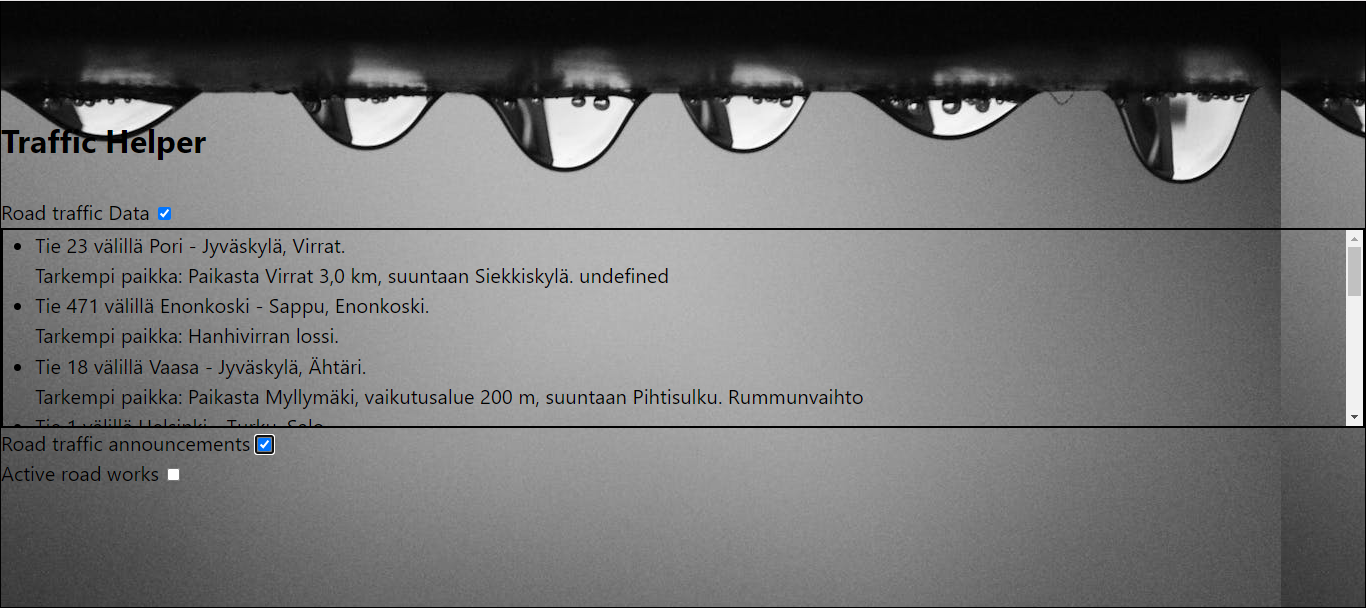
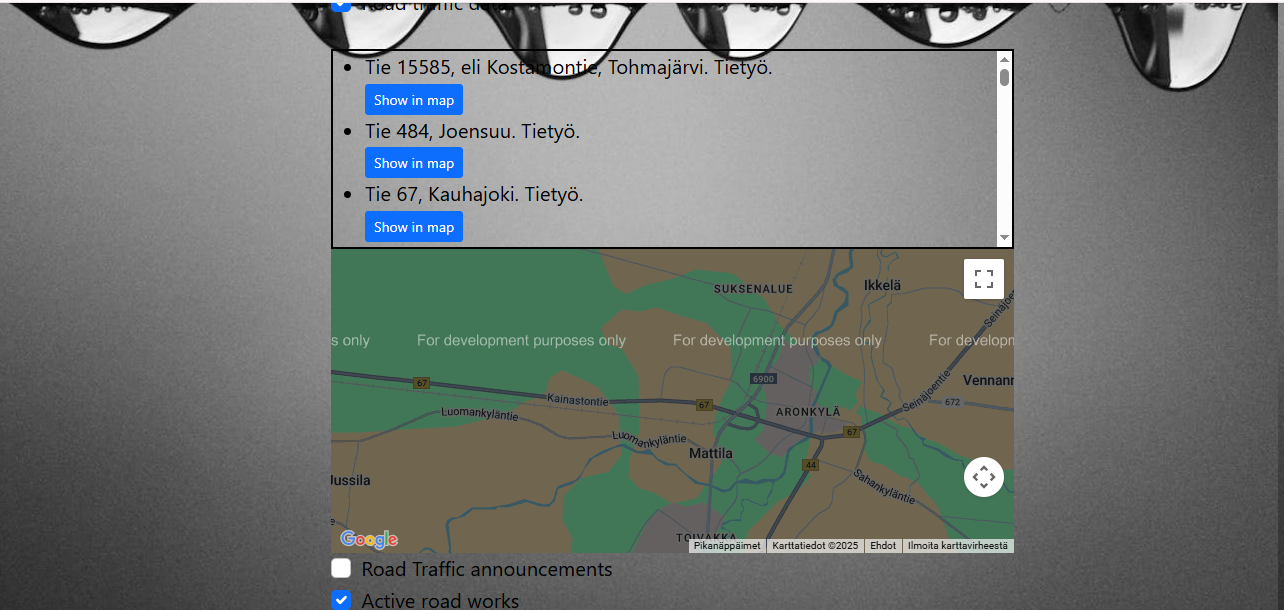
Google Maps feature added to roadwork announcements

diff --git a/src/pages/road.js b/src/pages/road.js
@@ -1,11 +1,25 @@
 import { useState } from "react"
 import WeatherCam from "./weatherCamera"
+import { APIProvider, Map } from '@vis.gl/react-google-maps';
 
 function Road() {
     const [roadCBsel, setRoadCBsel] = useState(true)
     const [wcam, setWcam] = useState(false)
+    var [lat,setLat]=useState(0)
+    var [long,setLong]=useState(0)
+    const [showMap,setShowMap]=useState(false)
+
+    const setMap=(id)=>{
+        var coordinates = document.getElementById(id).value
+        var coordSplit = coordinates.split(",")
+        setLong(long=parseFloat(coordSplit[0]))
+        setLat(lat=parseFloat(coordSplit[1]))
+        setShowMap(!showMap)
+
+    }
 
     function roadWorks() {
+      
         /*div johon tieliikennedata asetetaan näkyviin*/
         setRoadCBsel(!roadCBsel)
         const roadUrl = 'https://tie.digitraffic.fi/api/traffic-message/v1/messages?inactiveHours=0&includeAreaGeometry=false&situationType=ROAD_WORK'
@@ -17,14 +31,30 @@ function Road() {
             //data on json-tulosjoukon nimi
             .then(data => {
                 console.log(data)
-
+                var i = 0
                 data.features.forEach(d => {
+                    i+=1
                     const li = document.createElement("li")
+                    const mapBtn=document.createElement("button")
+                    mapBtn.setAttribute("class","btn btn-primary btn-sm")
+                    //funktion lisääminen dynaamisesti luotuun buttoniin
+                    mapBtn.id="mapBtn"+i
+                    mapBtn.addEventListener("click",()=>setMap(mapBtn.id))
+                    mapBtn.textContent="Show in map"
+                    mapBtn.value=d.geometry.coordinates[0][0]
+                    
+                 
+                    
+
+                   
+                    
 
                     //kentässä näytetää json tulosjoukon roadstationid ja sensorvalue-
                     li.innerText = d.properties.announcements[0].title
                     document.getElementById("list").appendChild(li)
+                    document.getElementById("list").appendChild(mapBtn)
                 })
+              
 
 
 
@@ -76,6 +106,7 @@ function Road() {
 
                 data.features.forEach(d => {
                     const li = document.createElement("li")
+                    
 
                     //kentässä näytetää json tulosjoukon roadstationid ja sensorvalue-
                     li.innerText = d.properties.announcements[0].location.description + ' ' + d.properties.announcements[0].comment
@@ -93,6 +124,16 @@ function Road() {
             <div id="roadContent" hidden={roadCBsel} className="roadContent">
                 <ul id="list"></ul>
             </div>
+            {showMap &&
+            <APIProvider apiKey={""}>
+                            <Map
+                                
+                                style={{ width: '50vw', height: '50vh' }}
+                                defaultCenter={{ lat: lat, lng: long }}
+                                defaultZoom={13}
+                                gestureHandling={'greedy'}
+                                disableDefaultUI={false} />
+                        </APIProvider>}
             <div class="form-check">
                 <input class="form-check-input" type="checkbox" id="announcementCB" onChange={roadAnnounce}></input>
                 <label class="form-check-label" for="announcementCB">Road Traffic announcements</label>

diff --git a/src/pages/weatherCamera.js b/src/pages/weatherCamera.js
@@ -7,6 +7,7 @@ function WeatherCam() {
     const camJkl = ["https://weathercam.digitraffic.fi/C0951001.jpg", "https://weathercam.digitraffic.fi/C0951002.jpg", "https://weathercam.digitraffic.fi/C0951009.jpg"]
     const [camView, setCamView] = useState(0)
     //sanakirjaolio, ensin tulee avain, eli esim tre, joka saadaan select komponentin optionin valuesta
+    //avaimen avulla käytetään arvona olevaa listaa
     const cams = {"tre":camTre,"kur":camKur,"jkl":camJkl}
     const [cameraParam,setCameraParam]= useState('')
 
@@ -32,11 +33,6 @@ function WeatherCam() {
                 //cams[cameraParam][camView]= esim cams[kur][kameran numero]
                 document.getElementById("camImg").src = cams[cameraParam][camView]
             }
-        
-    
-       
-        //var val = WeatherCam()
-        //console.log(val)*/
 
 
     }
@@ -52,7 +48,7 @@ function WeatherCam() {
             <br></br>
             <button class="btn btn-primary btn-sm" onClick={changeView}>Change camera</button>
             <br></br>
-            <img id="camImg" width={700} height={500} alt="camera image" src={'empty'}></img>
+            <img id="camImg" width={700} height={500} alt="camera" src={'empty'}></img>
 
 
         </div>

diff --git a/README.md b/README.md
@@ -42,8 +42,7 @@ The API search works with the siteNumber value, so the "show site numbers" butto
 
 ![alt text](src/images/seaExample.png)
 
-Example picture where the user has retrieved all Finnish road work notices from the API.
-The div element where the traffic announcements are displayed has a max-width value that prevents the div element from growing too large if there are a lot of active traffic announcements. the scroll bar makes it easier to browse notifications.
+Example image where the user has searched for all ongoing roadworks in Finland and opened one of the roadworks in the Google Maps map view. Each roadwork has a Bootstrap 5 style button, which the user can click to open the roadwork location in the Google Maps view. The latitude/longitude coordinates of the roadwork are stored in React State variables after the button is clicked and sent as parameters to the Maps component implementing the map view.
 
 ![alt text](src/images/roadAnnounc.png)
 
